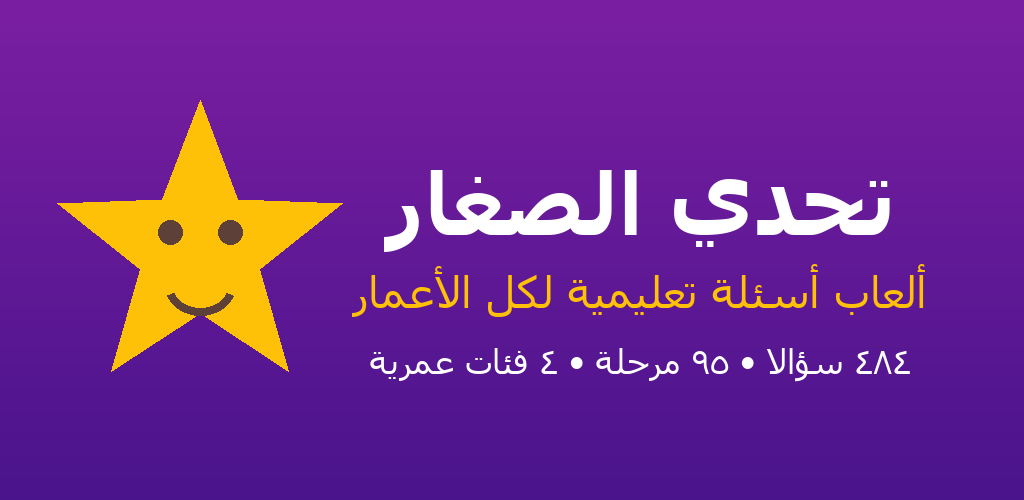
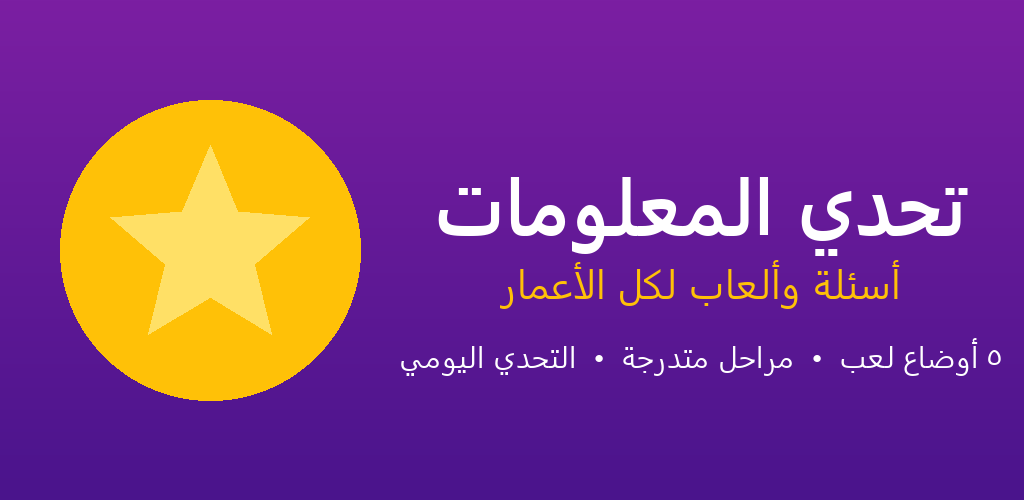
v8.0: targetSdk 36 + إصلاح تداخل شريط الحالة + أصول متجر جديدة باسم تحدي المعلومات

Changed region(s): [[0.0312, 0.18, 0.9688, 0.81], [0.3438, 0.69, 0.9688, 0.78]]

diff --git a/app/src/main/java/com/saidcharoun/tahaddisighar/MainActivity.kt b/app/src/main/java/com/saidcharoun/tahaddisighar/MainActivity.kt
@@ -73,6 +73,8 @@ class MainActivity : ComponentActivity() {
 
 @Composable
 fun AppRoot(vm: GameViewModel = viewModel()) {
+    // حشوة أشرطة النظام (الحالة/التنقل): تمنع تداخل الأزرار مع الشريط العلوي على أندرويد 15+
+    Box(Modifier.fillMaxSize().background(bg()).systemBarsPadding()) {
     AnimatedContent(targetState = vm.screen, label = "screen") { screen ->
         when (screen) {
             Screen.SPLASH -> SplashScreen(vm)
@@ -90,6 +92,7 @@ fun AppRoot(vm: GameViewModel = viewModel()) {
             Screen.FAMILY_RESULT -> FamilyResultScreen(vm)
             Screen.SETTINGS -> SettingsScreen(vm)
         }
+    }
     }
 }
 

diff --git a/أصول_المتجر/وصف_المتجر.md b/أصول_المتجر/وصف_المتجر.md
@@ -1,4 +1,4 @@
-# نصوص متجر Google Play — تحدي الصغار
+# نصوص متجر Google Play — تحدي المعلومات
 
 انسخ كل قسم في الحقل المقابل له داخل Google Play Console.
 
@@ -6,7 +6,7 @@
 
 ## 📌 اسم التطبيق (App name) — حتى 30 حرفاً
 ```
-تحدي الصغار - أسئلة وألعاب
+تحدي المعلومات - أسئلة وألعاب
 ```
 
 ## 📝 الوصف القصير (Short description) — حتى 80 حرفاً
@@ -16,9 +16,9 @@
 
 ## 📄 الوصف الكامل (Full description) — حتى 4000 حرف
 ```
-🌟 تحدي الصغار — لعبة الأسئلة التعليمية الأولى لكل أفراد العائلة!
+🌟 تحدي المعلومات — لعبة الأسئلة التعليمية الأولى لكل أفراد العائلة!
 
-هل تبحث عن لعبة ممتعة وآمنة تعلّم أطفالك وتسلّي العائلة كلها؟ تحدي الصغار يجمع بين المتعة والتعليم في تجربة عربية رائعة، مع مئات الأسئلة المتدرجة الصعوبة عبر مراحل لا تنتهي!
+هل تبحث عن لعبة ممتعة وآمنة تعلّم أطفالك وتسلّي العائلة كلها؟ تحدي المعلومات يجمع بين المتعة والتعليم في تجربة عربية رائعة، مع مئات الأسئلة المتدرجة الصعوبة عبر مراحل لا تنتهي!
 
 🎯 أربع فئات عمرية لكل أفراد العائلة:
 • 🧸 ٣ - ٥ سنوات: الألوان، الحيوانات، الأشكال، أصوات الحيوانات.
@@ -26,7 +26,7 @@
 • 📚 ٩ - ١٢ سنة: الجغرافيا، الرياضيات، العلوم، اللغة العربية.
 • 🧠 العائلة والكبار: العواصم، المعالم العالمية، الثقافة العامة.
 
-✨ ما الذي يميّز تحدي الصغار؟
+✨ ما الذي يميّز تحدي المعلومات؟
 • أكثر من ٤٨٠ سؤالاً متنوّعاً وموثوقاً.
 • نحو ٩٥ مرحلة تزداد صعوبتها كلما تقدّمت.
 • نظام القلوب: ٣ محاولات لكل مرحلة لتحدٍّ حقيقي.
@@ -37,11 +37,11 @@
 • واجهة عربية جميلة وسهلة، مناسبة للأطفال.
 
 📚 تعليمي وآمن:
-صُمّم تحدي الصغار خصيصاً للعائلة العربية، بمحتوى هادف خالٍ من أي مشتتات، يساعد الأطفال على تعلّم المعلومات العامة والحساب واللغة بطريقة اللعب الممتع.
+صُمّم تحدي المعلومات خصيصاً للعائلة العربية، بمحتوى هادف خالٍ من أي مشتتات، يساعد الأطفال على تعلّم المعلومات العامة والحساب واللغة بطريقة اللعب الممتع.
 
 🎮 العب الآن، تعلّم، وتحدَّ عائلتك وأصدقاءك!
 
-حمّل تحدي الصغار مجاناً وابدأ المغامرة التعليمية اليوم.
+حمّل تحدي المعلومات مجاناً وابدأ المغامرة التعليمية اليوم.
 ```
 
 ---
